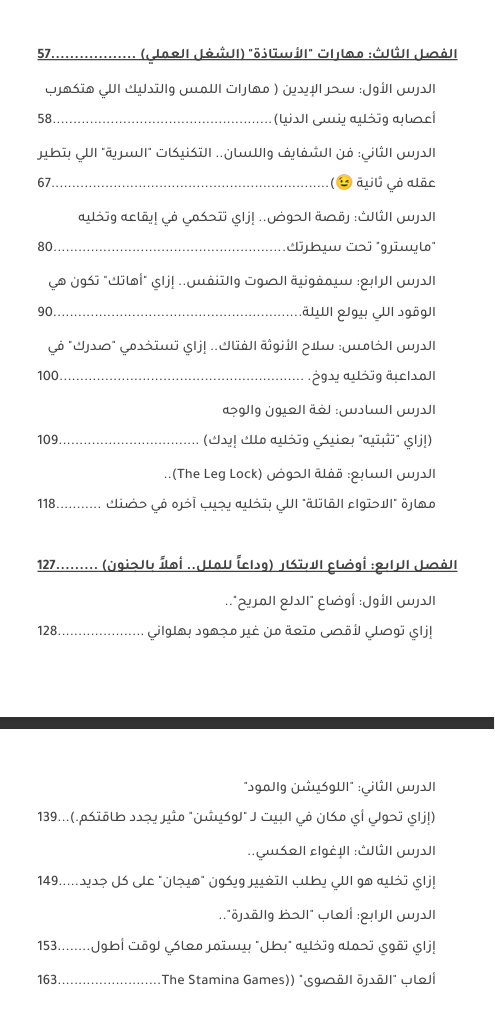
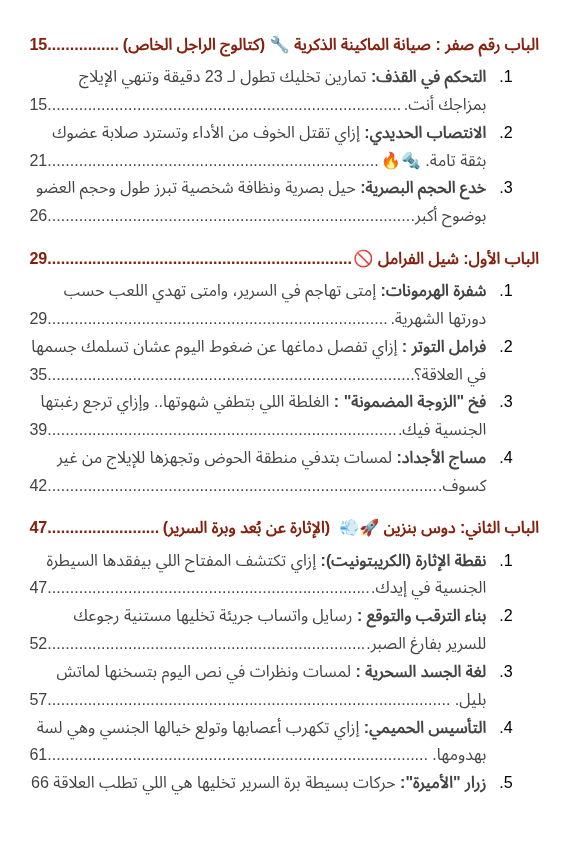
update sheet

Changed region(s): [[0.0, 0.0308, 1.0, 0.987], [0.9394, 0.2776, 0.9697, 0.3084], [0.3636, 0.7711, 0.3939, 0.8019]]

diff --git a/index.html b/index.html
@@ -1330,7 +1330,7 @@
             }
         });
 
-        const scriptUrl = 'https://script.google.com/macros/s/AKfycbx0jdlGbW-rRSTI9B2GTvDDiUgorHOMRS2V_0B2-vWfoZIY6kny4572GjZz5mjCY-Qi/exec';
+        const scriptUrl = 'https://script.google.com/macros/s/AKfycbxuFOJh2-5JIOgnlyS1iqQW6fSu1VwDX8-pVsf3ekNLMMUSfMJF96s3XON-2BwpOVMU/exec';
         let globalOrderId = 'ORD-' + Date.now();
         let addToCartTracked = false;
         let lastSyncedData = "";
